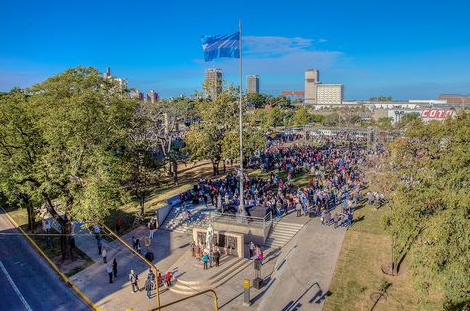
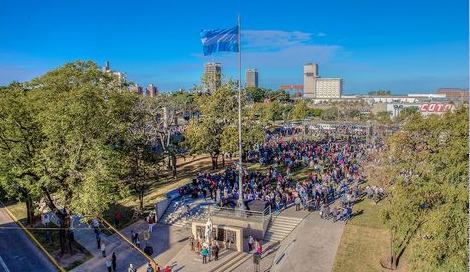
modidicacion en las img de seccion multimedia

diff --git a/pages/multimedia.html b/pages/multimedia.html
@@ -59,30 +59,30 @@
 		</div>		
 		<div class="row"> <!--FILA 3-->
 			<div class="col-lg-6 multi2">
-				<img src="../Assets/img/multi1.png" alt="" class="img1">
+				<img src="../Assets/img/multi1.png" alt="PuertoDeNoche" class="img1">
 			</div>
 		</div>
 		<div class="row"> <!--FILA 4-->
 			<div class="col-lg-6 col-xs-12">
-				<img src="../Assets/img/multi2.png" alt="" class="img2">
+				<img src="../Assets/img/multi2.png" alt="PuenteColgante" class="img2">
 			</div>
 		</div>
 		<div class="row"> <!--FILA 5-->
 			<div class="col-lg-6 col-xs-12">
-				<img src="../Assets/img/multi3.png" alt="" class="img3">
+				<img src="../Assets/img/multi3.png" alt="InauguracionPlaza" class="img3">
 			</div>
 		</div>
 		<div class="row"> <!--FILA 6-->
 			<div class="col-lg-12 col-xs-12">
-				<img src="../Assets/img/multi4.png" alt="" class="img4">
+				<img src="../Assets/img/multi4.png" alt="PuenteColganteNoche" class="img4">
 			</div>
 		</div>
 		<div class="row"> <!--FILA 7-->
 			<div class="col-lg-6 col-xs-12">
-				<img src="../Assets/img/multi5.png" alt="" class="img5">
+				<img src="../Assets/img/multi5.png" alt="PatioCervecero" class="img5">
 			</div>
 			<div class="col-lg-6 col-xs-12">
-				<img src="../Assets/img/multi6.png" alt="" class="img6">
+				<img src="../Assets/img/multi6.png" alt="FiestaTC" class="img6">
 			</div>
 		</div>
 		<div class="row fila6 footer"> <!--FILA 8-->

diff --git a/CSS/estilo.css b/CSS/estilo.css
@@ -163,13 +163,13 @@ padding-left: 25px;
 position: absolute;
 }
 .img2{
-    padding-left: 590px;
-    padding-top: 85px;
+    padding-left: 600px;
+    padding-top: 50px;
     position: absolute;
 }
 .img3{
-    padding-top: 330px;
-    padding-left: 55px;
+    padding-top: 337px;
+    padding-left: 25px;
 }
 .img4{
     padding-top: 20px;
@@ -178,9 +178,10 @@ position: absolute;
 }
 .img5{
     margin-bottom: 25px;
+    margin-left: 30px;
 }
 .img6{
-    padding-left: 65px;
+    padding-left: 40px;
 }
 
 /*CSS INFO UTIL */
